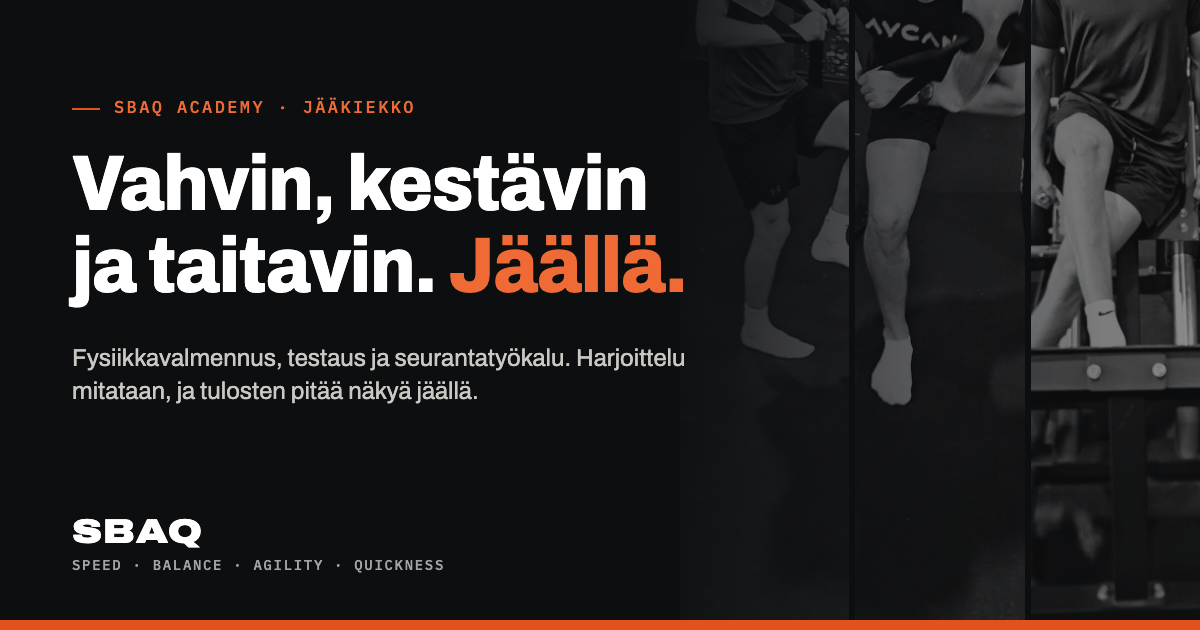
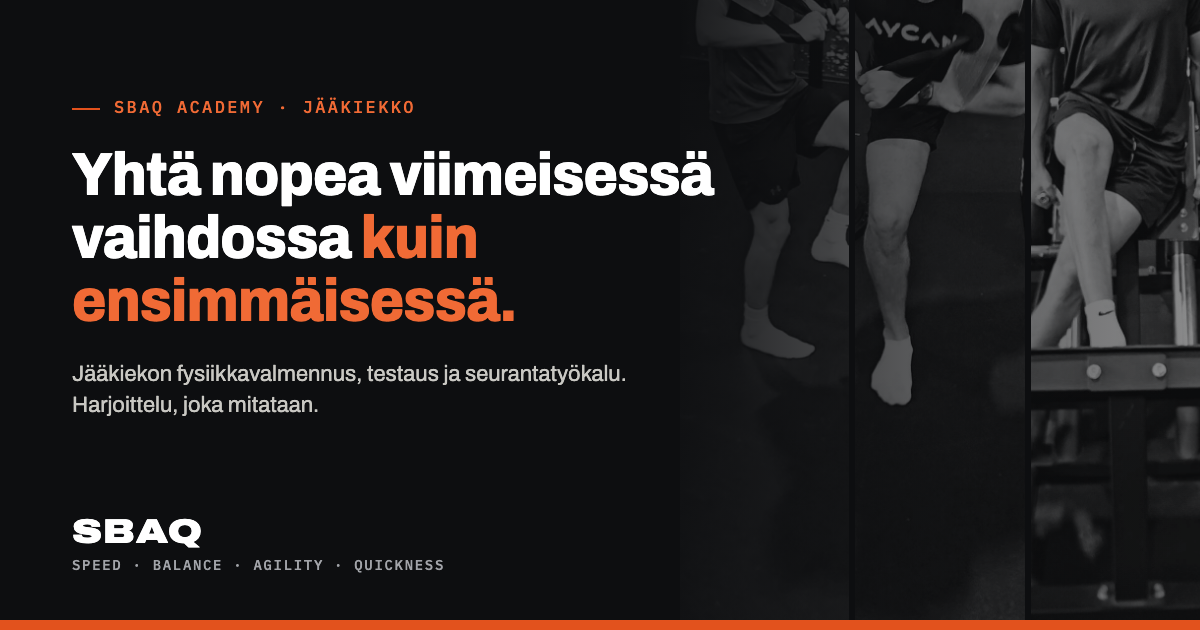
New main message, team roles and refreshed share image
- Hero headline "Yhtä nopea viimeisessä vaihdossa kuin ensimmäisessä",
  the old slogan kept as a subline; lead rewritten around repeated
  explosiveness; meta description and og:title updated.
- Team: Marko Kettunen and Timo Salo run the operation, Mikael Paunio in
  SBAQ research and coaching.
- og.png regenerated with the new headline.

Changed region(s): [[0.0617, 0.2413, 0.6167, 0.5127], [0.0617, 0.5429, 0.5858, 0.6635]]

diff --git a/index.html b/index.html
@@ -4,14 +4,14 @@
   <meta charset="utf-8" />
   <meta name="viewport" content="width=device-width, initial-scale=1" />
   <title>SBAQ Academy. Speed, Balance, Agility, Quickness</title>
-  <meta name="description" content="SBAQ Academy rakentaa pelaajan, joka on vahvin, kestävin ja taitavin jäällä. Harjoittelu mitataan yhteistyössä yliopistojen, tutkimustoimijoiden ja urheilulaboratorioiden kanssa, ja seurantatyökalu näyttää, miten pelaaja kehittyy." />
+  <meta name="description" content="SBAQ Academy harjoittaa räjähtävyyttä, joka toistuu koko ottelun: yhtä nopea viimeisessä vaihdossa kuin ensimmäisessä. Harjoittelu mitataan yhteistyössä yliopistojen, tutkimustoimijoiden ja urheilulaboratorioiden kanssa, ja seurantatyökalu näyttää, miten pelaaja kehittyy." />
   <link rel="canonical" href="https://segedi23.github.io/sbaq-demo/" />
   <link rel="icon" href="img/favicon.svg" type="image/svg+xml" />
   <link rel="apple-touch-icon" href="img/apple-touch-icon.png" />
   <meta property="og:type" content="website" />
   <meta property="og:locale" content="fi_FI" />
   <meta property="og:site_name" content="SBAQ Academy" />
-  <meta property="og:title" content="SBAQ Academy. Jääkiekon fysiikkavalmennus, testaus ja seurantatyökalu" />
+  <meta property="og:title" content="SBAQ Academy. Yhtä nopea viimeisessä vaihdossa kuin ensimmäisessä." />
   <meta property="og:description" content="Harjoittelu mitataan ja tulosten pitää näkyä jäällä. Katso demo ja yhden pelaajan case: mitä tapahtuu, kun harjoittelu muuttuu." />
   <meta property="og:url" content="https://segedi23.github.io/sbaq-demo/" />
   <meta property="og:image" content="https://segedi23.github.io/sbaq-demo/img/og.png" />
@@ -21,7 +21,7 @@
   <link rel="preconnect" href="https://fonts.googleapis.com" />
   <link rel="preconnect" href="https://fonts.gstatic.com" crossorigin />
   <link href="https://fonts.googleapis.com/css2?family=Archivo:wdth,wght@75..125,400..900&family=IBM+Plex+Mono:wght@400;500&display=swap" rel="stylesheet" />
-  <link rel="stylesheet" href="site.css?v=20260923a" />
+  <link rel="stylesheet" href="site.css?v=20260923b" />
 </head>
 <body id="top">
 
@@ -55,12 +55,14 @@
     <div class="hero-in">
       <div class="hero-text">
         <p class="dateline">SBAQ Academy · jääkiekon fysiikkavalmennus, testaus ja seurantatyökalu</p>
-        <h1>Vahvin, kestävin ja taitavin. <i>Jäällä.</i></h1>
+        <h1>Yhtä nopea viimeisessä vaihdossa <i>kuin ensimmäisessä.</i></h1>
+        <p class="hero-sub">Vahvin, kestävin ja taitavin. Jäällä.</p>
         <p class="lead">
-          Emme rakenna pelaajaa kuntosalia tai laboratoriota varten. Rakennamme pelaajan,
-          joka on parhaimmillaan siellä, missä sillä on eniten merkitystä: pelitilanteessa,
-          kovassa vauhdissa ja kontaktissa. Kaikki, mitä salilla tehdään, mitataan, ja
-          harjoittelun vaikutuksen pitää näkyä jäällä.
+          Kiihdytys, jarrutus, taklaus ja laukaus ovat muutaman sekunnin maksimisuorituksia,
+          ja ottelussa niitä tulee kymmeniä. Ero syntyy siitä, kuinka nopeasti räjähtävyys
+          palautuu suoritusten välillä. Siksi emme rakenna pelaajaa kuntosalia varten, vaan
+          pelitilanteeseen, kovaan vauhtiin ja kontaktiin. Kaikki, mitä salilla tehdään,
+          mitataan.
         </p>
         <p class="hero-offer">
           Seuralle tämä on kolme asiaa samassa kokonaisuudessa: SBAQ-harjoittelu,
@@ -339,14 +341,14 @@
   <section class="sec" id="tekijat">
     <header class="sec-mark">
       <span class="no">04 · Tekijät</span>
-      <h2>Kolme valmentajaa, laaja tausta</h2>
+      <h2>Kaksi vetäjää, tutkimustausta ja kasvava valmentajaryhmä</h2>
     </header>
 
     <div class="people">
       <ul class="names">
-        <li><b>MP</b><span>Mikael Paunio</span></li>
-        <li><b>MK</b><span>Marko Kettunen</span></li>
-        <li><b>TS</b><span>Timo Salo</span></li>
+        <li><b>MK</b><span>Marko Kettunen<small>Vetää toimintaa ja valmentaa</small></span></li>
+        <li><b>TS</b><span>Timo Salo<small>Vetää toimintaa ja valmentaa</small></span></li>
+        <li><b>MP</b><span>Mikael Paunio<small>SBAQ-tutkimustyö ja valmennus</small></span></li>
       </ul>
 
       <div class="exp">
@@ -435,6 +437,6 @@
   </div>
 </footer>
 
-<script src="site.js?v=20260923a"></script>
+<script src="site.js?v=20260923b"></script>
 </body>
 </html>

diff --git a/site.css b/site.css
@@ -83,6 +83,7 @@ h1 i { font-style: normal; color: var(--tape-2); }
 .go:hover::after, .mast-tool:hover::after { transform: translateX(3px); }
 .under { font-weight: 600; font-size: 15px; text-underline-offset: 5px; text-decoration-thickness: 1px; }
 .under:hover { color: var(--tape-2); }
+.hero-sub { margin-top: 14px; font: 500 12.5px/1.5 var(--f-mono); letter-spacing: .08em; text-transform: uppercase; color: var(--tape-2); }
 .hero-offer { margin-top: 18px; max-width: 34em; font-size: 15.5px; line-height: 1.55; color: #c9c8c3; border-left: 2px solid var(--tape); padding-left: 14px; }
 .hero-note { margin-top: 28px; font: 400 12px/1.5 var(--f-mono); color: #a2a4a9; }
 
@@ -239,6 +240,7 @@ table { border-collapse: collapse; width: 100%; }
 .names li:last-child { border-bottom: 1px solid var(--hair); }
 .names b { flex: none; width: 52px; height: 52px; display: grid; place-items: center; background: var(--ink); color: #fff; font: 500 14px/1 var(--f-mono); letter-spacing: .06em; }
 .names span { font-size: clamp(20px, 2vw, 25px); font-weight: 800; font-stretch: 95%; }
+.names small { display: block; font-size: 14px; font-weight: 400; font-stretch: 100%; color: var(--gray); margin-top: 2px; }
 .exp ul { border-top: 1px solid var(--ink); }
 .exp li { display: grid; grid-template-columns: 1fr 1fr; column-gap: 24px; padding: 13px 0 14px; border-bottom: 1px solid var(--hair); }
 .exp li b { font-size: 15.5px; font-weight: 700; }

diff --git a/menetelma.html b/menetelma.html
@@ -21,7 +21,7 @@
   <link rel="preconnect" href="https://fonts.googleapis.com" />
   <link rel="preconnect" href="https://fonts.gstatic.com" crossorigin />
   <link href="https://fonts.googleapis.com/css2?family=Archivo:wdth,wght@75..125,400..900&family=IBM+Plex+Mono:wght@400;500&display=swap" rel="stylesheet" />
-  <link rel="stylesheet" href="site.css?v=20260923a" />
+  <link rel="stylesheet" href="site.css?v=20260923b" />
 </head>
 <body id="top">
 
@@ -427,6 +427,6 @@
   </div>
 </footer>
 
-<script src="site.js?v=20260923a"></script>
+<script src="site.js?v=20260923b"></script>
 </body>
 </html>
